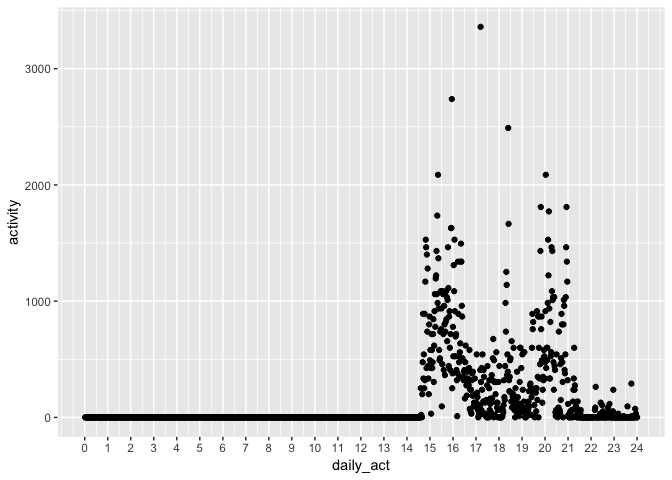
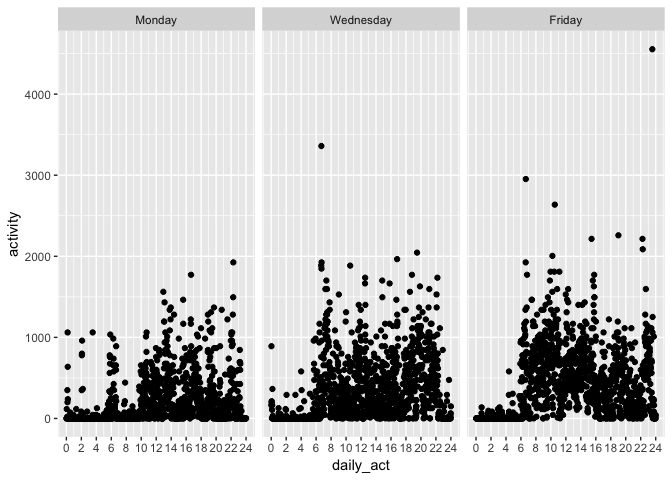
knitted rmd

diff --git a/p8105_mtp_jih2119.md b/p8105_mtp_jih2119.md
@@ -27,91 +27,54 @@ accel_data = read_csv(file = "data/p8105_mtp_data.csv") %>%
   arrange(week) %>% 
   mutate(total_act = rowSums(.[,3:1440], na.rm = TRUE)) %>% 
   mutate(avg_act = rowMeans(.[,3:1440], na.rm = TRUE))
-
-accel_data[1:10, 1:1444]
 ```
-
-    ## # A tibble: 10 x 1,444
-    ##     week day   activity_1 activity_2 activity_3 activity_4 activity_5
-    ##    <int> <ord>      <dbl>      <dbl>      <dbl>      <dbl>      <dbl>
-    ##  1     1 Sund…         1         1          1          1          1  
-    ##  2     1 Mond…         1         1          1         43.0        1  
-    ##  3     1 Tues…         1         1          1          1          1  
-    ##  4     1 Wedn…         1       845.       213.       580.       492. 
-    ##  5     1 Thur…         1         1          1          1          1  
-    ##  6     1 Frid…         1        22.         1        116.        43.0
-    ##  7     1 Satu…         1         1          1          1          1  
-    ##  8     2 Sund…         1         1          1          1          1  
-    ##  9     2 Mond…         1        43.0       11.0      425.         1  
-    ## 10     2 Tues…        22.        1         11.0        1         64.0
-    ## # ... with 1,437 more variables: activity_6 <dbl>, activity_7 <dbl>,
-    ## #   activity_8 <dbl>, activity_9 <dbl>, activity_10 <dbl>,
-    ## #   activity_11 <dbl>, activity_12 <dbl>, activity_13 <dbl>,
-    ## #   activity_14 <dbl>, activity_15 <dbl>, activity_16 <dbl>,
-    ## #   activity_17 <dbl>, activity_18 <dbl>, activity_19 <dbl>,
-    ## #   activity_20 <dbl>, activity_21 <dbl>, activity_22 <dbl>,
-    ## #   activity_23 <dbl>, activity_24 <dbl>, activity_25 <dbl>,
-    ## #   activity_26 <dbl>, activity_27 <dbl>, activity_28 <dbl>,
-    ## #   activity_29 <dbl>, activity_30 <dbl>, activity_31 <dbl>,
-    ## #   activity_32 <dbl>, activity_33 <dbl>, activity_34 <dbl>,
-    ## #   activity_35 <dbl>, activity_36 <dbl>, activity_37 <dbl>,
-    ## #   activity_38 <dbl>, activity_39 <dbl>, activity_40 <dbl>,
-    ## #   activity_41 <dbl>, activity_42 <dbl>, activity_43 <dbl>,
-    ## #   activity_44 <dbl>, activity_45 <dbl>, activity_46 <dbl>,
-    ## #   activity_47 <dbl>, activity_48 <dbl>, activity_49 <dbl>,
-    ## #   activity_50 <dbl>, activity_51 <dbl>, activity_52 <dbl>,
-    ## #   activity_53 <dbl>, activity_54 <dbl>, activity_55 <dbl>,
-    ## #   activity_56 <dbl>, activity_57 <dbl>, activity_58 <dbl>,
-    ## #   activity_59 <dbl>, activity_60 <dbl>, activity_61 <dbl>,
-    ## #   activity_62 <dbl>, activity_63 <dbl>, activity_64 <dbl>,
-    ## #   activity_65 <dbl>, activity_66 <dbl>, activity_67 <dbl>,
-    ## #   activity_68 <dbl>, activity_69 <dbl>, activity_70 <dbl>,
-    ## #   activity_71 <dbl>, activity_72 <dbl>, activity_73 <dbl>,
-    ## #   activity_74 <dbl>, activity_75 <dbl>, activity_76 <dbl>,
-    ## #   activity_77 <dbl>, activity_78 <dbl>, activity_79 <dbl>,
-    ## #   activity_80 <dbl>, activity_81 <dbl>, activity_82 <dbl>,
-    ## #   activity_83 <dbl>, activity_84 <dbl>, activity_85 <dbl>,
-    ## #   activity_86 <dbl>, activity_87 <dbl>, activity_88 <dbl>,
-    ## #   activity_89 <dbl>, activity_90 <dbl>, activity_91 <dbl>,
-    ## #   activity_92 <dbl>, activity_93 <dbl>, activity_94 <dbl>,
-    ## #   activity_95 <dbl>, activity_96 <dbl>, activity_97 <dbl>,
-    ## #   activity_98 <dbl>, activity_99 <dbl>, activity_100 <dbl>,
-    ## #   activity_101 <dbl>, activity_102 <dbl>, activity_103 <dbl>,
-    ## #   activity_104 <dbl>, activity_105 <dbl>, …
 
 This dataset consists of week, day, and activity variables. Each activity column represents a summary of the voltage signal in a minute of the day. There are 329 rows and 1,442 variables total.
 
 ``` r
-ggplot(accel_data, aes(x = week, y = total_act)) +  
+year_plot = ggplot(accel_data, aes(x = week, y = total_act)) +
   geom_point() +
   geom_smooth()
+year_plot
 ```
 
     ## `geom_smooth()` using method = 'loess' and formula 'y ~ x'
 
-![](p8105_mtp_jih2119_files/figure-markdown_github/total_act_plot-1.png)
+![](p8105_mtp_jih2119_files/figure-markdown_github/total_act_per_day_over_time-1.png)
 
 ``` r
-ggplot(accel_data, aes(x = day, y = avg_act)) +  
+week_plot = ggplot(accel_data, aes(x = day, y = avg_act)) + 
   geom_boxplot()
+week_plot
 ```
 
-![](p8105_mtp_jih2119_files/figure-markdown_github/days-1.png)
+![](p8105_mtp_jih2119_files/figure-markdown_github/all_weeks_avg_per_day-1.png)
 
 ``` r
 sunday_act = accel_data %>% 
   gather(key = daily_act, value = activity, activity_1:activity_1440) %>% 
-  filter(day == "Sunday" & week == 1) %>% 
+  filter(
+      day == "Monday" | day == "Wednesday" | day == "Friday",
+      week == 30) %>% 
   mutate(daily_act = str_replace(daily_act, "activity_", "")) %>% 
   mutate(daily_act = as.numeric(daily_act) / 60)
 
-ggplot(sunday_act, aes(x = daily_act, y = activity)) +
+day_plot = ggplot(sunday_act, aes(x = daily_act, y = activity)) +
   geom_point() +
-  scale_x_continuous(breaks = seq(0, 24, by = 1))
+  scale_x_continuous(breaks = seq(0, 24, by = 2)) +
+  facet_grid(. ~ day)
+day_plot
 ```
 
 ![](p8105_mtp_jih2119_files/figure-markdown_github/24_hour_sunday-1.png)
 
 ``` r
-#wordcountaddin::text_stats("p8105_mtp_jih2119.Rmd")
+wordcountaddin::text_stats("p8105_mtp_jih2119.Rmd")
 ```
+
+| Method          | koRpus      | stringi       |
+|:----------------|:------------|:--------------|
+| Word count      | 37          | 34            |
+| Character count | 220         | 219           |
+| Sentence count  | 3           | Not available |
+| Reading time    | 0.2 minutes | 0.2 minutes   |
